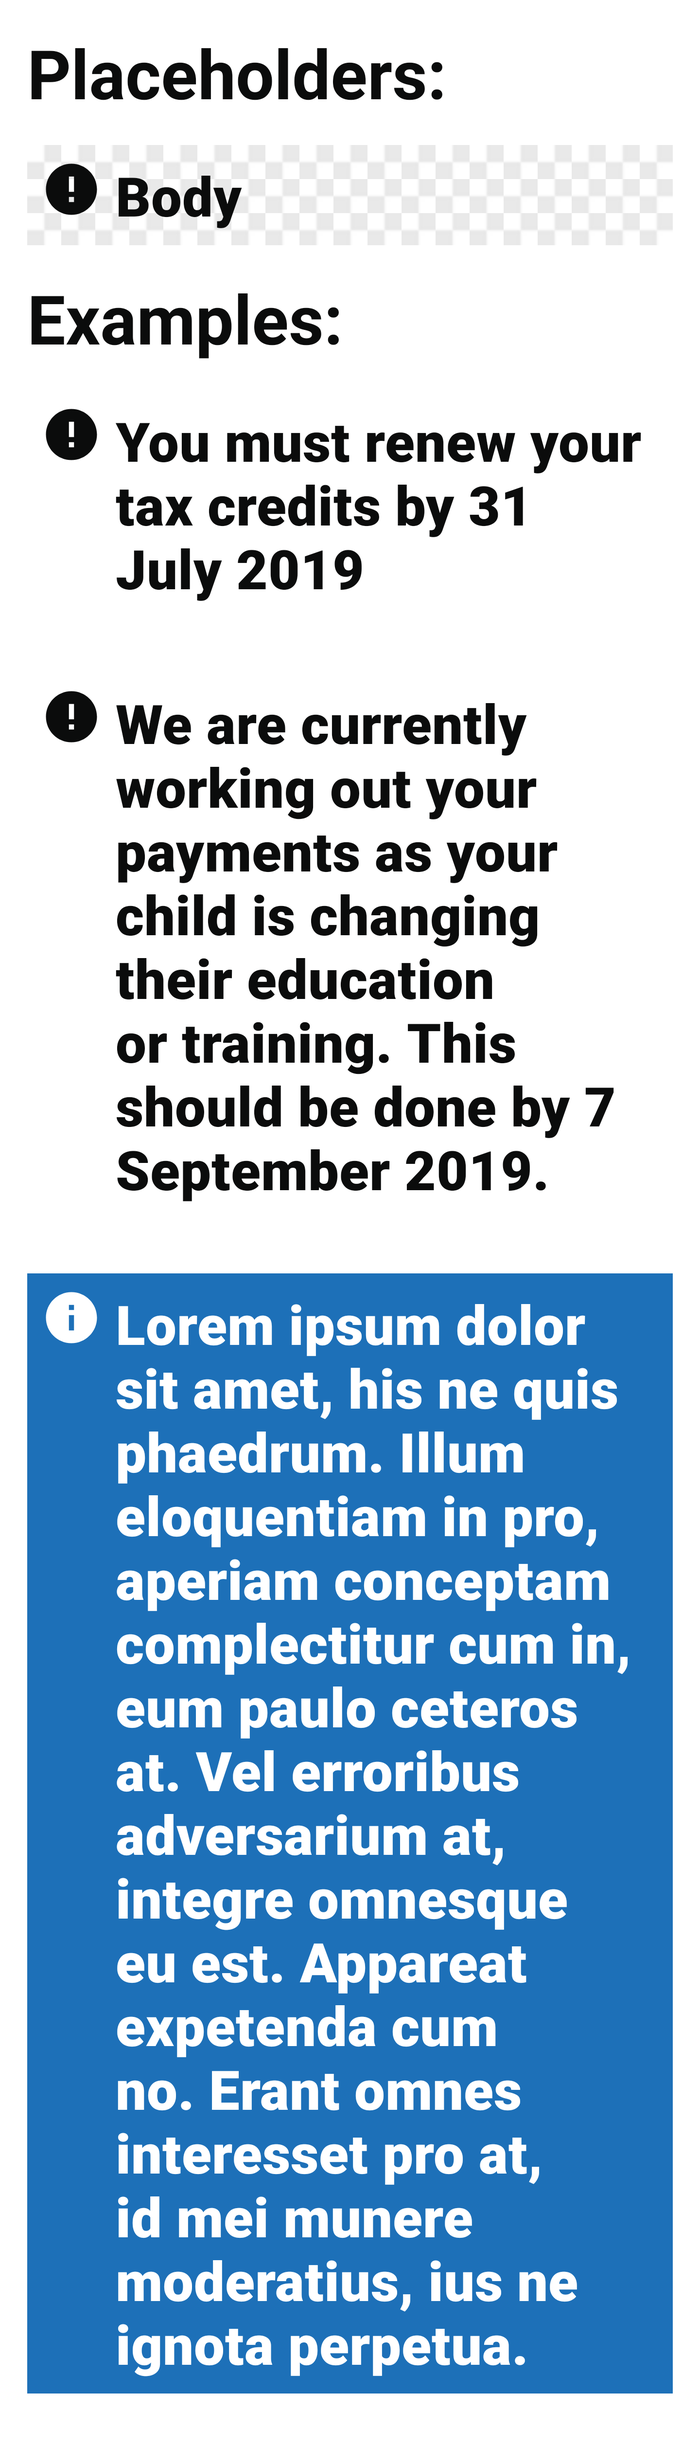
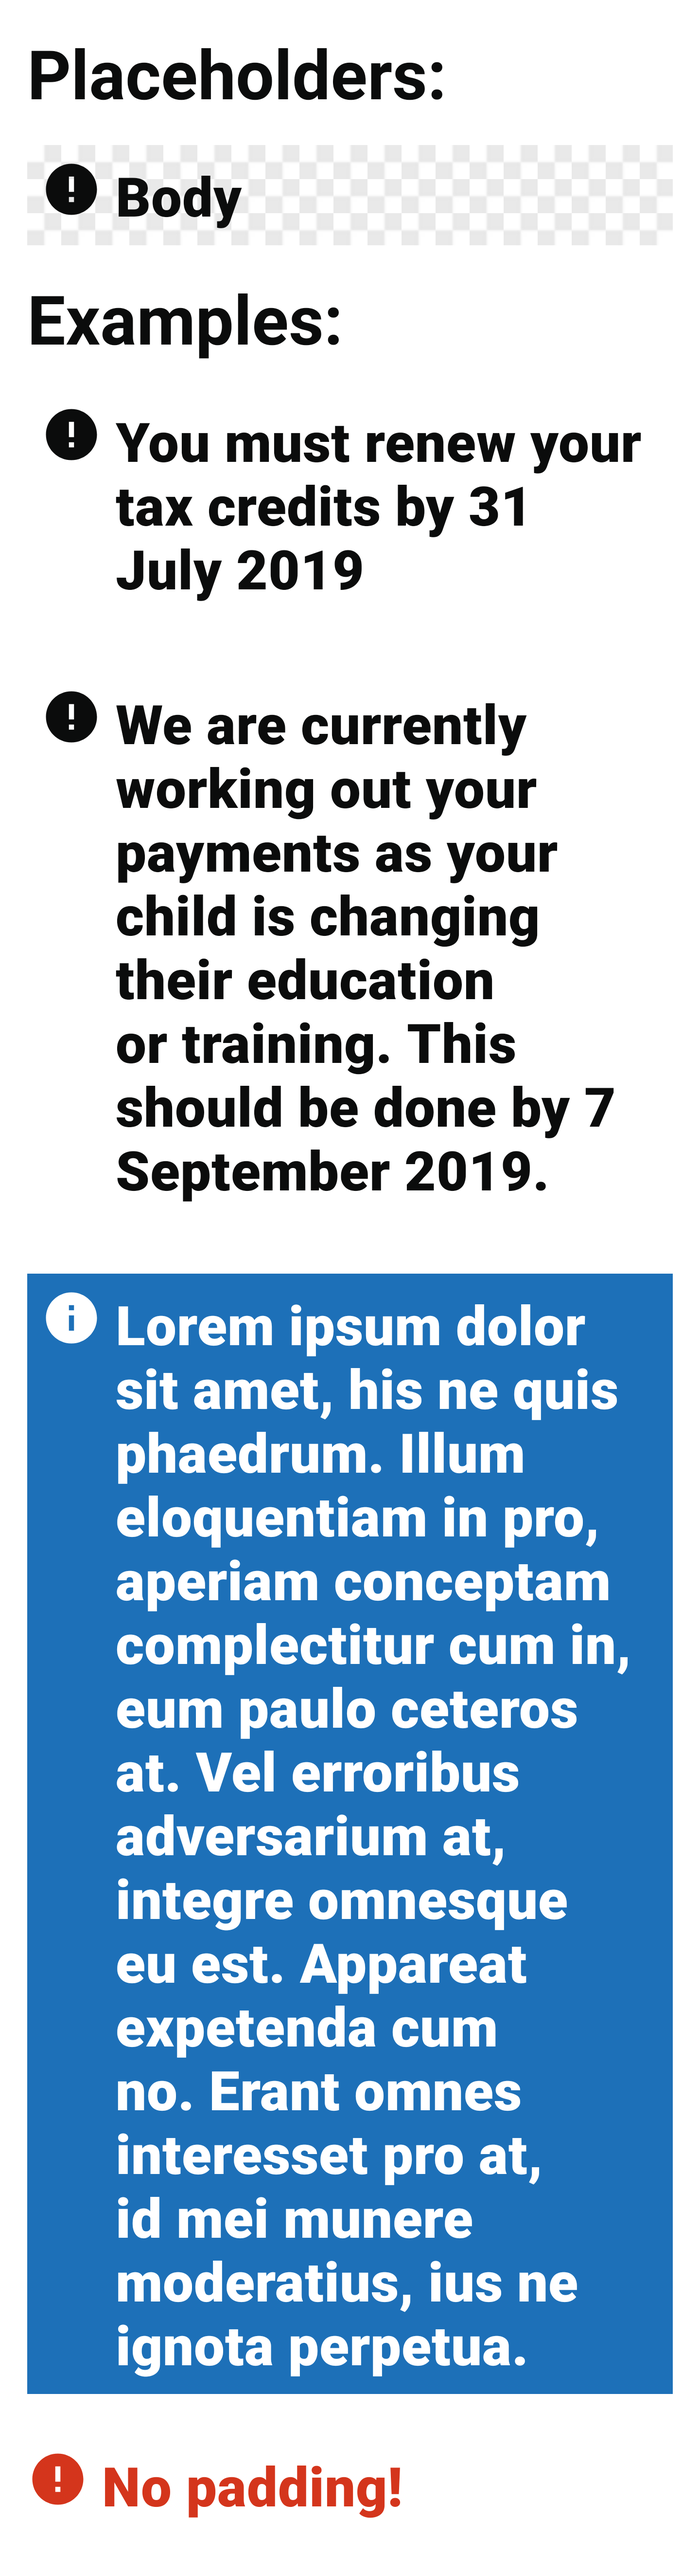
Add ability to remove default padding from WarningView

diff --git a/components/src/main/java/uk/gov/hmrc/components/molecule/warning/WarningView.kt b/components/src/main/java/uk/gov/hmrc/components/molecule/warning/WarningView.kt
@@ -44,17 +44,18 @@ class WarningView @JvmOverloads constructor(
             val textColor = typedArray.getResourceId(R.styleable.WarningView_textColor, R.color.hmrc_black)
             val icon = typedArray.getResourceId(R.styleable.WarningView_icon, R.drawable.components_ic_warning)
             val iconTint = typedArray.getResourceId(R.styleable.WarningView_iconTintColor, R.color.hmrc_black)
+            val noPadding = typedArray.getBoolean(R.styleable.WarningView_noPadding, false)
 
             setText(text)
             setTextColor(textColor)
             setIcon(icon)
             setIconTintColor(iconTint)
+            if (!noPadding) {
+                // Component has default padding of 8dp
+                resources.getDimensionPixelSize(R.dimen.hmrc_spacing_8).let { setPadding(it, it, it, it) }
+            }
 
             typedArray.recycle()
-        }
-
-        resources.getDimensionPixelSize(R.dimen.hmrc_spacing_8).let {
-            setPadding(it, it, it, it)
         }
     }
 

diff --git a/CHANGELOG.md b/CHANGELOG.md
@@ -16,6 +16,10 @@ Allowed headings:
 
 ## [Unreleased]
 
+### Added
+
+* `WarningView` has new attribute `noPadding` which removes the default padding from the component when set to true. When not set, component has `8dp` padding.
+
 ### Changed
 
 * Updated padding on `HeadlineCardView` so that if there are no children added then the bottom padding is the same as a normal card (16dp). If children are added, this padding is increased back to 24dp automatically.
